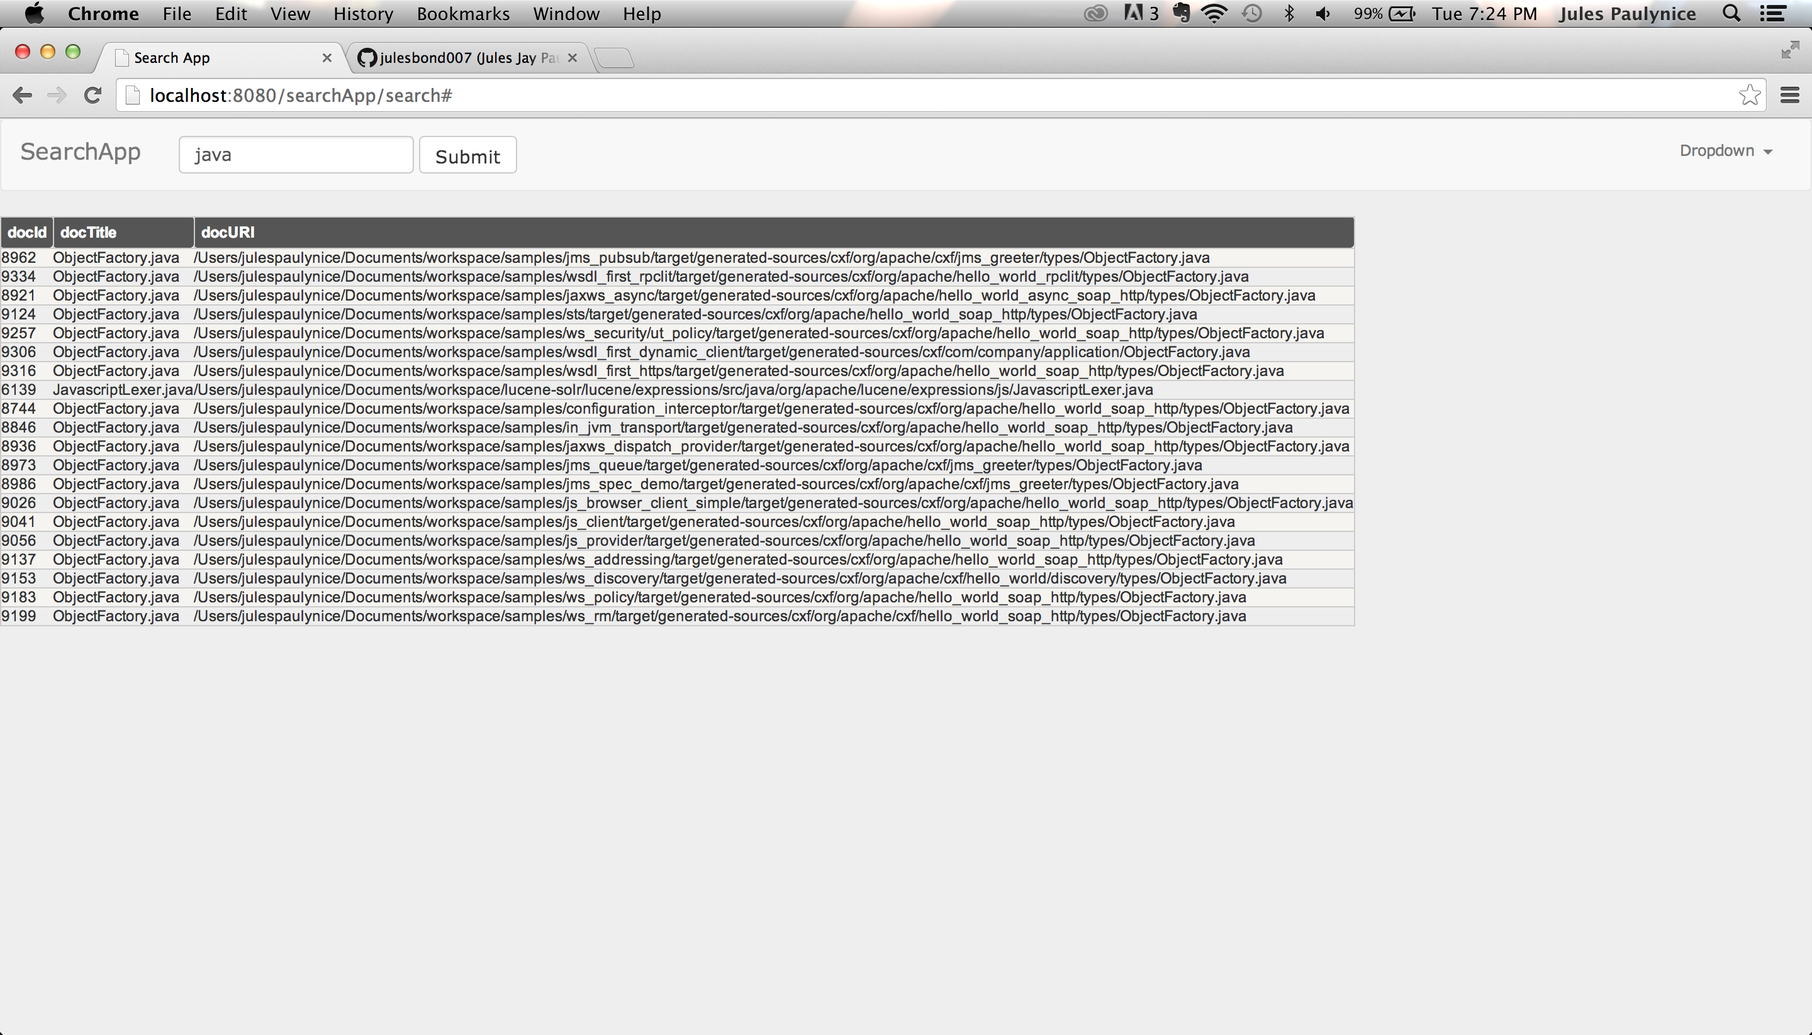
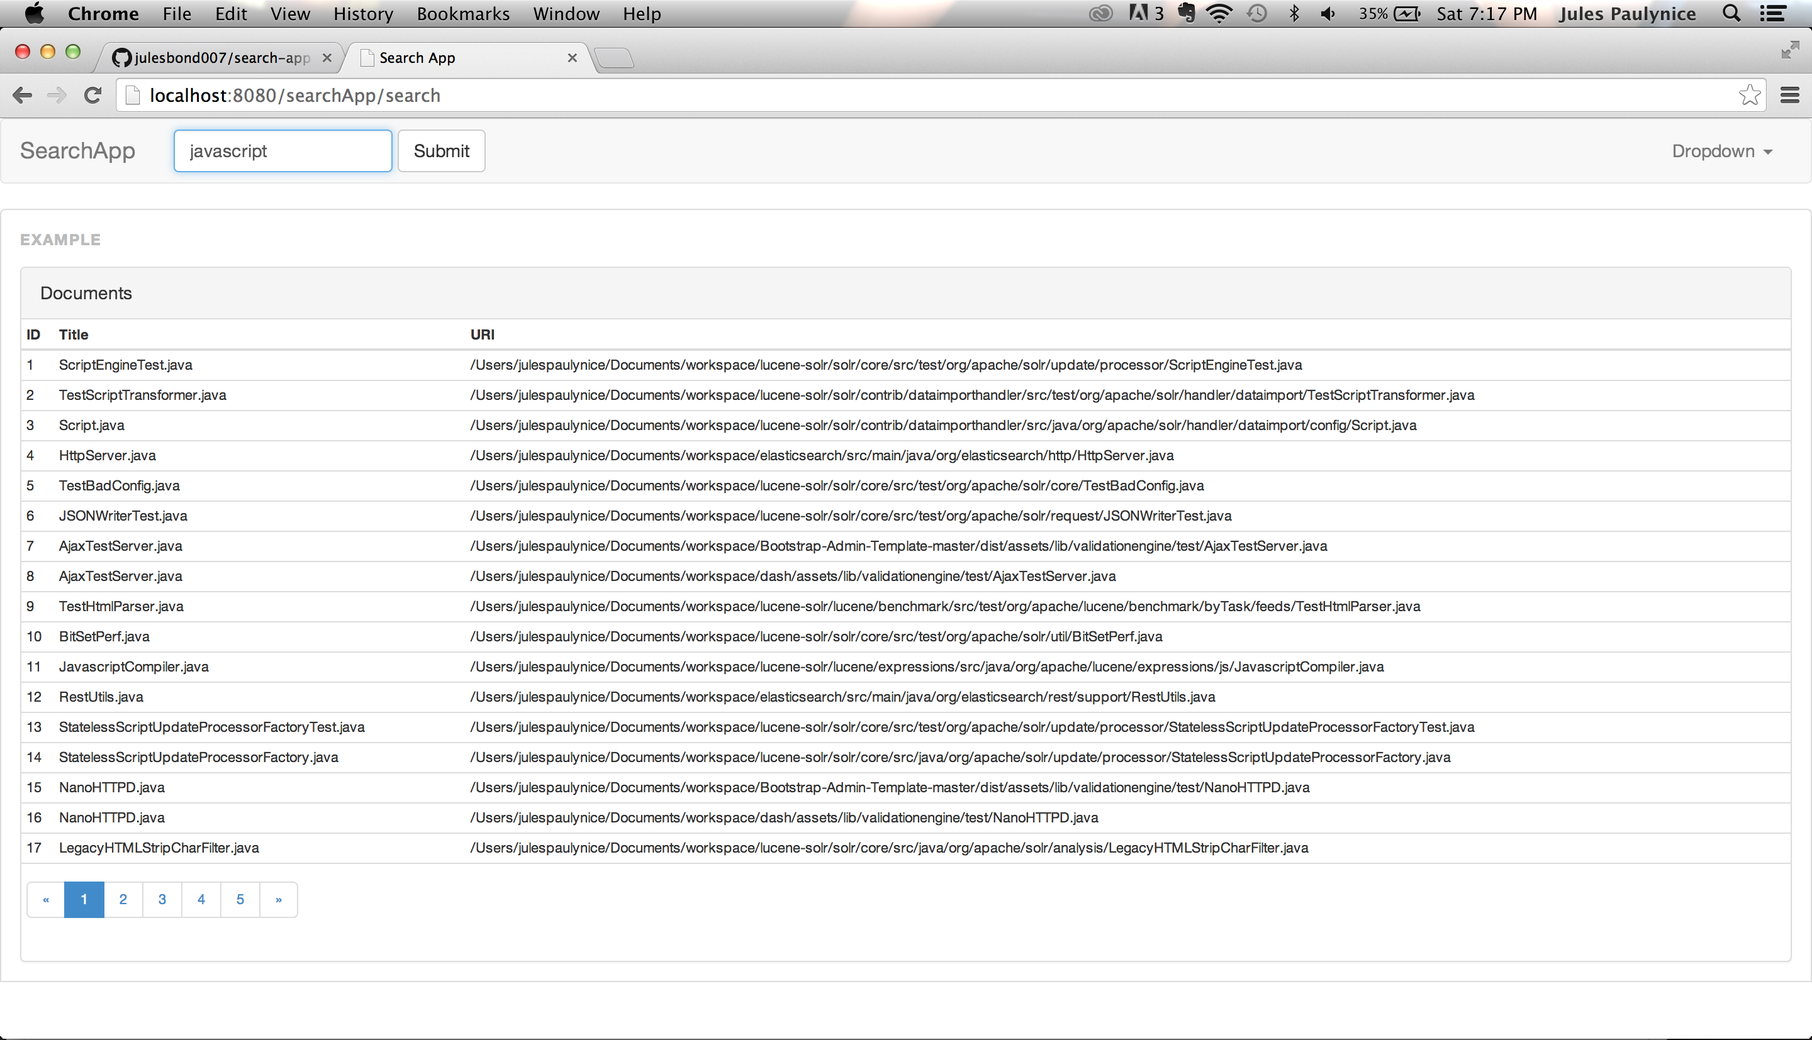
working on pagination

diff --git a/search-webapp/src/main/webapp/resources/css/docs.min.css b/search-webapp/src/main/webapp/resources/css/docs.min.css
@@ -1,0 +1,6 @@
+/*!
+ * Bootstrap Docs (http://getbootstrap.com)
+ * Copyright 2011-2014 Twitter, Inc.
+ * Licensed under the Creative Commons Attribution 3.0 Unported License. For
+ * details, see http://creativecommons.org/licenses/by/3.0/.
+ */body{position:relative}.table code{font-size:13px;font-weight:400}.btn-outline{color:#563d7c;background-color:transparent;border-color:#563d7c}.btn-outline:hover,.btn-outline:focus,.btn-outline:active{color:#fff;background-color:#563d7c;border-color:#563d7c}.btn-outline-inverse{color:#fff;background-color:transparent;border-color:#cdbfe3}.btn-outline-inverse:hover,.btn-outline-inverse:focus,.btn-outline-inverse:active{color:#563d7c;text-shadow:none;background-color:#fff;border-color:#fff}.bs-docs-booticon{display:block;font-weight:500;color:#fff;background-color:#563d7c;border-radius:15%;cursor:default;text-align:center}.bs-docs-booticon-sm{width:30px;height:30px;font-size:20px;line-height:28px}.bs-docs-booticon-lg{width:144px;height:144px;font-size:108px;line-height:140px}.bs-docs-booticon-inverse{color:#563d7c;background-color:#fff}.bs-docs-booticon-outline{background-color:transparent;border:1px solid #cdbfe3}.bs-docs-nav{margin-bottom:0;background-color:#fff;border-bottom:0}.bs-home-nav .bs-nav-b{display:none}.bs-docs-nav .navbar-brand,.bs-docs-nav .navbar-nav>li>a{color:#563d7c;font-weight:500}.bs-docs-nav .navbar-nav>li>a:hover,.bs-docs-nav .navbar-nav>.active>a,.bs-docs-nav .navbar-nav>.active>a:hover{color:#463265;background-color:#f9f9f9}.bs-docs-nav .navbar-toggle .icon-bar{background-color:#563d7c}.bs-docs-nav .navbar-header .navbar-toggle{border-color:#fff}.bs-docs-nav .navbar-header .navbar-toggle:hover,.bs-docs-nav .navbar-header .navbar-toggle:focus{background-color:#f9f9f9;border-color:#f9f9f9}.bs-docs-footer{padding-top:40px;padding-bottom:40px;margin-top:100px;color:#777;text-align:center;border-top:1px solid #e5e5e5}.bs-docs-footer-links{margin-top:20px;padding-left:0;color:#999}.bs-docs-footer-links li{display:inline;padding:0 2px}.bs-docs-footer-links li:first-child{padding-left:0}@media (min-width:768px){.bs-docs-footer p{margin-bottom:0}}.bs-docs-social{margin-bottom:20px;text-align:center}.bs-docs-social-buttons{display:inline-block;margin-bottom:0;padding-left:0;list-style:none}.bs-docs-social-buttons li{display:inline-block;line-height:1;padding:5px 8px}.bs-docs-social-buttons .twitter-follow-button{width:225px!important}.bs-docs-social-buttons .twitter-share-button{width:98px!important}.github-btn{border:0;overflow:hidden}.bs-docs-masthead,.bs-docs-header{position:relative;padding:30px 15px;color:#cdbfe3;text-align:center;text-shadow:0 1px 0 rgba(0,0,0,.1);background-color:#6f5499;background-image:-webkit-linear-gradient(top,#563d7c 0,#6f5499 100%);background-image:linear-gradient(to bottom,#563d7c 0,#6f5499 100%);background-repeat:repeat-x;filter:progid:DXImageTransform.Microsoft.gradient(startColorstr='#563d7c', endColorstr='#6F5499', GradientType=0)}.bs-docs-masthead .bs-docs-booticon{margin:0 auto 30px}.bs-docs-masthead h1{font-weight:300;line-height:1;color:#fff}.bs-docs-masthead .lead{margin:0 auto 30px;font-size:20px;color:#fff}.bs-docs-masthead .version{margin-top:-15px;margin-bottom:30px;color:#9783b9}.bs-docs-masthead .btn{width:100%;padding:15px 30px;font-size:20px}@media (min-width:480px){.bs-docs-masthead .btn{width:auto}}@media (min-width:768px){.bs-docs-masthead{padding-top:80px;padding-bottom:80px}.bs-docs-masthead h1{font-size:60px}.bs-docs-masthead .lead{font-size:24px}}@media (min-width:992px){.bs-docs-masthead .lead{width:80%;font-size:30px}}.bs-docs-header{margin-bottom:40px;font-size:20px}.bs-docs-header h1{margin-top:0;color:#fff}.bs-docs-header p{margin-bottom:0;font-weight:300;line-height:1.4}.bs-docs-header .container{position:relative}@media (min-width:768px){.bs-docs-header{padding-top:60px;padding-bottom:60px;font-size:24px;text-align:left}.bs-docs-header h1{font-size:60px;line-height:1}}@media (min-width:992px){.bs-docs-header h1,.bs-docs-header p{margin-right:380px}}.carbonad{width:auto!important;margin:30px -30px -31px!important;padding:20px!important;overflow:hidden;height:auto!important;font-size:13px!important;line-height:16px!important;text-align:left;background:transparent!important;border:solid #866ab3!important;border-width:1px 0!important}.carbonad-img{margin:0!important}.carbonad-text,.carbonad-tag{float:none!important;display:block!important;width:auto!important;height:auto!important;margin-left:145px!important;font-family:"Helvetica Neue",Helvetica,Arial,sans-serif!important}.carbonad-text{padding-top:0!important}.carbonad-tag{color:inherit!important;text-align:left!important}.carbonad-text a,.carbonad-tag a{color:#fff!important}.carbonad #azcarbon>img{display:none}@media (min-width:480px){.carbonad{width:330px!important;margin:20px auto!important;border-radius:4px;border-width:1px!important}.bs-docs-masthead .carbonad{margin:50px auto 0!important}}@media (min-width:768px){.carbonad{margin-left:0!important;margin-right:0!important}}@media (min-width:992px){.carbonad{position:absolute;top:0;right:15px;margin:0!important;padding:15px!important;width:330px!important}.bs-docs-masthead .carbonad{position:static}}.bs-docs-featurette{padding-top:40px;padding-bottom:40px;font-size:16px;line-height:1.5;color:#555;text-align:center;background-color:#fff;border-bottom:1px solid #e5e5e5}.bs-docs-featurette+.bs-docs-footer{margin-top:0;border-top:0}.bs-docs-featurette-title{font-size:30px;font-weight:400;color:#333;margin-bottom:5px}.half-rule{width:100px;margin:40px auto}.bs-docs-featurette h3{font-weight:400;color:#333;margin-bottom:5px}.bs-docs-featurette-img{display:block;margin-bottom:20px;color:#333}.bs-docs-featurette-img:hover{text-decoration:none;color:#428bca}.bs-docs-featurette-img img{display:block;margin-bottom:15px}.bs-docs-featured-sites{margin-left:-1px;margin-right:-1px}.bs-docs-featured-sites .col-sm-3{padding-left:1px;padding-right:1px}@media (min-width:480px){.bs-docs-featurette .img-responsive{margin-top:30px}}@media (min-width:768px){.bs-docs-featurette{padding-top:100px;padding-bottom:100px}.bs-docs-featurette-title{font-size:40px}.bs-docs-featurette .lead{margin-left:auto;margin-right:auto;max-width:80%}.bs-docs-featured-sites .col-sm-3:first-child img{border-top-left-radius:4px;border-bottom-left-radius:4px}.bs-docs-featured-sites .col-sm-3:last-child img{border-top-right-radius:4px;border-bottom-right-radius:4px}.bs-docs-featurette .img-responsive{margin-top:0}}.bs-docs-sidebar.affix{position:static}@media (min-width:768px){.bs-docs-sidebar{padding-left:20px}}.bs-docs-sidenav{margin-top:20px;margin-bottom:20px}.bs-docs-sidebar .nav>li>a{display:block;font-size:13px;font-weight:500;color:#999;padding:4px 20px}.bs-docs-sidebar .nav>li>a:hover,.bs-docs-sidebar .nav>li>a:focus{padding-left:19px;color:#563d7c;text-decoration:none;background-color:transparent;border-left:1px solid #563d7c}.bs-docs-sidebar .nav>.active>a,.bs-docs-sidebar .nav>.active:hover>a,.bs-docs-sidebar .nav>.active:focus>a{padding-left:18px;font-weight:700;color:#563d7c;background-color:transparent;border-left:2px solid #563d7c}.bs-docs-sidebar .nav .nav{display:none;padding-bottom:10px}.bs-docs-sidebar .nav .nav>li>a{padding-top:1px;padding-bottom:1px;padding-left:30px;font-size:12px;font-weight:400}.bs-docs-sidebar .nav .nav>li>a:hover,.bs-docs-sidebar .nav .nav>li>a:focus{padding-left:29px}.bs-docs-sidebar .nav .nav>.active>a,.bs-docs-sidebar .nav .nav>.active:hover>a,.bs-docs-sidebar .nav .nav>.active:focus>a{font-weight:500;padding-left:28px}.back-to-top{display:none;margin-top:10px;margin-left:10px;padding:4px 10px;font-size:12px;font-weight:500;color:#999}.back-to-top:hover{text-decoration:none;color:#563d7c}@media (min-width:768px){.back-to-top{display:block}}@media (min-width:992px){.bs-docs-sidebar .nav>.active>ul{display:block}.bs-docs-sidebar.affix,.bs-docs-sidebar.affix-bottom{width:213px}.bs-docs-sidebar.affix{position:fixed;top:20px}.bs-docs-sidebar.affix-bottom{position:absolute}.bs-docs-sidebar.affix-bottom .bs-docs-sidenav,.bs-docs-sidebar.affix .bs-docs-sidenav{margin-top:0;margin-bottom:0}}@media (min-width:1200px){.bs-docs-sidebar.affix-bottom,.bs-docs-sidebar.affix{width:263px}}.bs-docs-section{margin-bottom:60px}.bs-docs-section:last-child{margin-bottom:0}h1[id]{margin-top:0;padding-top:20px}.bs-callout{margin:20px 0;padding:20px;border-left:3px solid #eee}.bs-callout h4{margin-top:0;margin-bottom:5px}.bs-callout p:last-child{margin-bottom:0}.bs-callout code{background-color:#fff;border-radius:3px}.bs-callout-danger{background-color:#fdf7f7;border-color:#d9534f}.bs-callout-danger h4{color:#d9534f}.bs-callout-warning{background-color:#fcf8f2;border-color:#f0ad4e}.bs-callout-warning h4{color:#f0ad4e}.bs-callout-info{background-color:#f4f8fa;border-color:#5bc0de}.bs-callout-info h4{color:#5bc0de}.color-swatches{margin:0 -5px;overflow:hidden}.color-swatch{float:left;width:60px;height:60px;margin:0 5px;border-radius:3px}@media (min-width:768px){.color-swatch{width:100px;height:100px}}.color-swatches .gray-darker{background-color:#222}.color-swatches .gray-dark{background-color:#333}.color-swatches .gray{background-color:#555}.color-swatches .gray-light{background-color:#999}.color-swatches .gray-lighter{background-color:#eee}.color-swatches .brand-primary{background-color:#428bca}.color-swatches .brand-success{background-color:#5cb85c}.color-swatches .brand-warning{background-color:#f0ad4e}.color-swatches .brand-danger{background-color:#d9534f}.color-swatches .brand-info{background-color:#5bc0de}.color-swatches .bs-purple{background-color:#563d7c}.color-swatches .bs-purple-light{background-color:#c7bfd3}.color-swatches .bs-purple-lighter{background-color:#e5e1ea}.color-swatches .bs-gray{background-color:#f9f9f9}.bs-team .team-member{color:#555;line-height:32px}.bs-team .team-member:hover{color:#333;text-decoration:none}.bs-team .github-btn{float:right;margin-top:6px;width:180px;height:20px}.bs-team img{float:left;width:32px;margin-right:10px;border-radius:4px}.show-grid{margin-bottom:15px}.show-grid [class^=col-]{padding-top:10px;padding-bottom:10px;background-color:#eee;background-color:rgba(86,61,124,.15);border:1px solid #ddd;border:1px solid rgba(86,61,124,.2)}.bs-example{position:relative;padding:45px 15px 15px;margin:0 -15px 15px;background-color:#fafafa;box-shadow:inset 0 3px 6px rgba(0,0,0,.05);border-color:#e5e5e5 #eee #eee;border-style:solid;border-width:1px 0}.bs-example:after{content:"Example";position:absolute;top:15px;left:15px;font-size:12px;font-weight:700;color:#bbb;text-transform:uppercase;letter-spacing:1px}.bs-example+.highlight{margin:-15px -15px 15px;border-radius:0;border-width:0 0 1px}@media (min-width:768px){.bs-example{margin-left:0;margin-right:0;background-color:#fff;border-width:1px;border-color:#ddd;border-radius:4px 4px 0 0;box-shadow:none}.bs-example+.highlight{margin-top:-16px;margin-left:0;margin-right:0;border-width:1px;border-bottom-left-radius:4px;border-bottom-right-radius:4px}}.bs-example .container{width:auto}.bs-example>p:last-child,.bs-example>ul:last-child,.bs-example>ol:last-child,.bs-example>blockquote:last-child,.bs-example>.form-control:last-child,.bs-example>.table:last-child,.bs-example>.navbar:last-child,.bs-example>.jumbotron:last-child,.bs-example>.alert:last-child,.bs-example>.panel:last-child,.bs-example>.list-group:last-child,.bs-example>.well:last-child,.bs-example>.progress:last-child,.bs-example>.table-responsive:last-child>.table{margin-bottom:0}.bs-example>p>.close{float:none}.bs-example-type .table .type-info{color:#999;vertical-align:middle}.bs-example-type .table td{padding:15px 0;border-color:#eee}.bs-example-type .table tr:first-child td{border-top:0}.bs-example-type h1,.bs-example-type h2,.bs-example-type h3,.bs-example-type h4,.bs-example-type h5,.bs-example-type h6{margin:0}.bs-example-bg-classes p{padding:15px}.bs-example>.img-circle,.bs-example>.img-rounded,.bs-example>.img-thumbnail{margin:5px}.bs-example>.table-responsive>.table{background-color:#fff}.bs-example>.btn,.bs-example>.btn-group{margin-top:5px;margin-bottom:5px}.bs-example>.btn-toolbar+.btn-toolbar{margin-top:10px}.bs-example-control-sizing select,.bs-example-control-sizing input[type=text]+input[type=text]{margin-top:10px}.bs-example-form .input-group{margin-bottom:10px}.bs-example>textarea.form-control{resize:vertical}.bs-example>.list-group{max-width:400px}.bs-example .navbar:last-child{margin-bottom:0}.bs-navbar-top-example,.bs-navbar-bottom-example{z-index:1;padding:0;overflow:hidden}.bs-navbar-top-example .navbar-header,.bs-navbar-bottom-example .navbar-header{margin-left:0}.bs-navbar-top-example .navbar-fixed-top,.bs-navbar-bottom-example .navbar-fixed-bottom{position:relative;margin-left:0;margin-right:0}.bs-navbar-top-example{padding-bottom:45px}.bs-navbar-top-example:after{top:auto;bottom:15px}.bs-navbar-top-example .navbar-fixed-top{top:-1px}.bs-navbar-bottom-example{padding-top:45px}.bs-navbar-bottom-example .navbar-fixed-bottom{bottom:-1px}.bs-navbar-bottom-example .navbar{margin-bottom:0}@media (min-width:768px){.bs-navbar-top-example .navbar-fixed-top,.bs-navbar-bottom-example .navbar-fixed-bottom{position:absolute}.bs-navbar-top-example{border-radius:0 0 4px 4px}.bs-navbar-bottom-example{border-radius:4px 4px 0 0}}.bs-example .pagination{margin-top:10px;margin-bottom:10px}.bs-example>.pager{margin-top:0}.bs-example-modal{background-color:#f5f5f5}.bs-example-modal .modal{position:relative;top:auto;right:auto;left:auto;bottom:auto;z-index:1;display:block}.bs-example-modal .modal-dialog{left:auto;margin-left:auto;margin-right:auto}.bs-example>.dropdown>.dropdown-menu{position:static;display:block;margin-bottom:5px}.bs-example-tabs .nav-tabs{margin-bottom:15px}.bs-example-tooltips{text-align:center}.bs-example-tooltips>.btn{margin-top:5px;margin-bottom:5px}.bs-example-popover{padding-bottom:24px;background-color:#f9f9f9}.bs-example-popover .popover{position:relative;display:block;float:left;width:260px;margin:20px}.scrollspy-example{position:relative;height:200px;margin-top:10px;overflow:auto}.highlight{padding:9px 14px;margin-bottom:14px;background-color:#f7f7f9;border:1px solid #e1e1e8;border-radius:4px}.highlight pre{padding:0;margin-top:0;margin-bottom:0;background-color:transparent;border:0;white-space:nowrap}.highlight pre code{font-size:inherit;color:#333}.highlight pre .lineno{display:inline-block;width:22px;padding-right:5px;margin-right:10px;text-align:right;color:#bebec5}.table-responsive .highlight pre{white-space:normal}.bs-table th small,.responsive-utilities th small{display:block;font-weight:400;color:#999}.responsive-utilities tbody th{font-weight:400}.responsive-utilities td{text-align:center}.responsive-utilities td.is-visible{color:#468847;background-color:#dff0d8!important}.responsive-utilities td.is-hidden{color:#ccc;background-color:#f9f9f9!important}.responsive-utilities-test{margin-top:5px}.responsive-utilities-test .col-xs-6{margin-bottom:10px}.responsive-utilities-test span{display:block;padding:15px 10px;font-size:14px;font-weight:700;line-height:1.1;text-align:center;border-radius:4px}.visible-on .col-xs-6 .hidden-xs,.visible-on .col-xs-6 .hidden-sm,.visible-on .col-xs-6 .hidden-md,.visible-on .col-xs-6 .hidden-lg,.hidden-on .col-xs-6 .hidden-xs,.hidden-on .col-xs-6 .hidden-sm,.hidden-on .col-xs-6 .hidden-md,.hidden-on .col-xs-6 .hidden-lg{color:#999;border:1px solid #ddd}.visible-on .col-xs-6 .visible-xs,.visible-on .col-xs-6 .visible-sm,.visible-on .col-xs-6 .visible-md,.visible-on .col-xs-6 .visible-lg,.hidden-on .col-xs-6 .visible-xs,.hidden-on .col-xs-6 .visible-sm,.hidden-on .col-xs-6 .visible-md,.hidden-on .col-xs-6 .visible-lg{color:#468847;background-color:#dff0d8;border:1px solid #d6e9c6}.bs-glyphicons{margin:0 -19px 20px -16px;overflow:hidden}.bs-glyphicons-list{padding-left:0;list-style:none}.bs-glyphicons li{float:left;width:25%;height:115px;padding:10px;font-size:10px;line-height:1.4;text-align:center;border:1px solid #fff;background-color:#f9f9f9}.bs-glyphicons .glyphicon{margin-top:5px;margin-bottom:10px;font-size:24px}.bs-glyphicons .glyphicon-class{display:block;text-align:center;word-wrap:break-word}.bs-glyphicons li:hover{color:#fff;background-color:#563d7c}@media (min-width:768px){.bs-glyphicons{margin-left:0;margin-right:0}.bs-glyphicons li{width:12.5%;font-size:12px}}.bs-customizer .toggle{float:right;margin-top:25px}.bs-customizer label{margin-top:10px;font-weight:500;color:#555}.bs-customizer h2{margin-top:0;margin-bottom:5px;padding-top:30px}.bs-customizer h3{margin-bottom:0}.bs-customizer h4{margin-top:15px;margin-bottom:0}.bs-customizer .bs-callout h4{margin-top:0;margin-bottom:5px}.bs-customizer input[type=text]{font-family:Menlo,Monaco,Consolas,"Courier New",monospace;background-color:#fafafa}.bs-customizer .help-block{font-size:12px;margin-bottom:5px}#less-section label{font-weight:400}.bs-customizer-input{float:left;width:33.333333%;padding-left:15px;padding-right:15px}.bs-customize-download .btn-outline{padding:20px}.bs-customizer-alert{position:fixed;top:0;left:0;right:0;z-index:1030;padding:15px 0;color:#fff;background-color:#d9534f;box-shadow:inset 0 1px 0 rgba(255,255,255,.25);border-bottom:1px solid #b94441}.bs-customizer-alert .close{margin-top:-4px;font-size:24px}.bs-customizer-alert p{margin-bottom:0}.bs-customizer-alert .glyphicon{margin-right:5px}.bs-customizer-alert pre{margin:10px 0 0;color:#fff;background-color:#a83c3a;border-color:#973634;box-shadow:inset 0 2px 4px rgba(0,0,0,.05),0 1px 0 rgba(255,255,255,.1)}.bs-brand-logos{display:table;width:100%;margin-bottom:15px;overflow:hidden;color:#563d7c;background-color:#f9f9f9;border-radius:4px}.bs-brand-item{padding:60px 0;text-align:center}.bs-brand-item+.bs-brand-item{border-top:1px solid #fff}.bs-brand-logos .inverse{color:#fff;background-color:#563d7c}.bs-brand-item h1,.bs-brand-item h3{margin-top:0;margin-bottom:0}.bs-brand-item .bs-docs-booticon{margin-left:auto;margin-right:auto}.bs-brand-item .glyphicon{width:30px;height:30px;margin:10px auto -10px;line-height:30px;color:#fff;border-radius:50%}.bs-brand-item .glyphicon-ok{background-color:#5cb85c}.bs-brand-item .glyphicon-remove{background-color:#d9534f}@media (min-width:768px){.bs-brand-item{display:table-cell;width:1%}.bs-brand-item+.bs-brand-item{border-top:0;border-left:1px solid #fff}.bs-brand-item h1{font-size:60px}}.bs-examples .thumbnail{margin-bottom:10px}.bs-examples h4{margin-bottom:5px}.bs-examples p{margin-bottom:20px}#focusedInput{border-color:#ccc;border-color:rgba(82,168,236,.8);outline:0;outline:thin dotted \9;-moz-box-shadow:0 0 8px rgba(82,168,236,.6);box-shadow:0 0 8px rgba(82,168,236,.6)}.hll{background-color:#ffc}.c{color:#999}.err{color:#A00;background-color:#FAA}.k{color:#069}.o{color:#555}.cm{color:#999}.cp{color:#099}.c1{color:#999}.cs{color:#999}.gd{background-color:#FCC;border:1px solid #C00}.ge{font-style:italic}.gr{color:red}.gh{color:#030}.gi{background-color:#CFC;border:1px solid #0C0}.go{color:#AAA}.gp{color:#009}.gu{color:#030}.gt{color:#9C6}.kc{color:#069}.kd{color:#069}.kn{color:#069}.kp{color:#069}.kr{color:#069}.kt{color:#078}.m{color:#F60}.s{color:#d44950}.na{color:#4f9fcf}.nb{color:#366}.nc{color:#0A8}.no{color:#360}.nd{color:#99F}.ni{color:#999}.ne{color:#C00}.nf{color:#C0F}.nl{color:#99F}.nn{color:#0CF}.nt{color:#2f6f9f}.nv{color:#033}.ow{color:#000}.w{color:#bbb}.mf{color:#F60}.mh{color:#F60}.mi{color:#F60}.mo{color:#F60}.sb{color:#C30}.sc{color:#C30}.sd{color:#C30;font-style:italic}.s2{color:#C30}.se{color:#C30}.sh{color:#C30}.si{color:#A00}.sx{color:#C30}.sr{color:#3AA}.s1{color:#C30}.ss{color:#FC3}.bp{color:#366}.vc{color:#033}.vg{color:#033}.vi{color:#033}.il{color:#F60}.css .o,.css .o+.nt,.css .nt+.nt{color:#999}

diff --git a/search-webapp/src/main/webapp/resources/css/styles.css b/search-webapp/src/main/webapp/resources/css/styles.css
@@ -2,76 +2,15 @@ body,html{
 	width:100%;
 }
 
-.navbar .navbar-form{
-    padding: 0 15px;
-}
-
-body{
-	margin:0px;
-}
-
-table, tr, th, thead {
-    padding: 0px;
-    margin: 0px;
-    border: 1px solid #ccc;
-    font-family:Arial,Helvetica, sans-serif;
-    font-size:12px;
-    
-}
-
-td{
-	border-right: 1px dotted rgba(0,0,0..5);
-}
-
-table tr:nth-child(odd) td{
-	background-color:#F6F4F0;
-}
-
 table{
-	border-spacing:1px;
+	font-size:11px;
 }
 
-th{
-    border-radius:3px;
-    padding:5px;
-}
-
-thead {
-    background-color: #555;
-    color: #fff;
-    font-family:Arial,Helvetica, sans-serif;
-    font-size:12px;
-}
-
-.grid{
-	bottom:30px;
-	position:absolute;
-	font-size:10px;
-	overflow-y:scroll;
-}
-
-.content{
-	left:100px;
-	 margin:auto;
-	 position:absolute;
-}
-
-.main{
-	width:500px;
-}
-
-input[type=text], 
-input[type=password]{
-	width:200px;
-	height:30px;
-	margin-top:5px;
-	margin-bottom:5px;
-}
-button{
-	height:30px;
-}
-
-html, body {
-	font-family:Verdana,Arial,sans-serif;
-	font-size:12px;
+.table>thead>tr>th, 
+.table>tbody>tr>th, 
+.table>tfoot>tr>th, 
+.table>thead>tr>td, 
+.table>tbody>tr>td, 
+.table>tfoot>tr>td{
+	padding:4px;	
 }

diff --git a/search-webapp/src/main/webapp/resources/js/app/views/grid/grid.js b/search-webapp/src/main/webapp/resources/js/app/views/grid/grid.js
@@ -9,6 +9,7 @@ define([ 'jquery', 'underscore', 'backbone', 'marionette',
 			var Grid = Backbone.Marionette.CompositeView.extend({
 				template : gridTemplate,
 				tagName : "table",
+				className: "table",
 				itemView : GridRow,
 
 				events : {

diff --git a/search-service-impl/src/main/java/com/searchapp/search/service/impl/SearchServiceImpl.java b/search-service-impl/src/main/java/com/searchapp/search/service/impl/SearchServiceImpl.java
@@ -80,7 +80,8 @@ public class SearchServiceImpl implements SearchService {
 
 		for (int i = 0; i < hits.length; i++) {
 			int docId = hits[i].doc;
-			Document docResult = getDocument(searcher, docId);
+			int docPosition = i+1;
+			Document docResult = getDocument(searcher, docId, docPosition);
 
 			results.add(docResult);
 		}
@@ -97,16 +98,16 @@ public class SearchServiceImpl implements SearchService {
 	 * @return
 	 * @throws IOException
 	 */
-	private Document getDocument(IndexSearcher searcher, int docId) throws IOException{
+	private Document getDocument(IndexSearcher searcher, int docId, int docPosition) throws IOException{
 		List<Field> fields = new ArrayList<Field>();
 		org.apache.lucene.document.Document doc = searcher.doc(docId);
 		Document docResult = new Document();
 		Field docIdField = new Field();
 		docIdField.setFieldId("doc_id");
-		docIdField.setName("Document Id");
+		docIdField.setName("ID");
 		docIdField.setI18nKey("searchapp.docId");
 		docIdField.setFieldType("string");
-		docIdField.setValue(String.valueOf(docId));
+		docIdField.setValue(String.valueOf(docPosition));
 
 		Field docNameField = new Field();
 		docNameField.setFieldId("doc_title");
